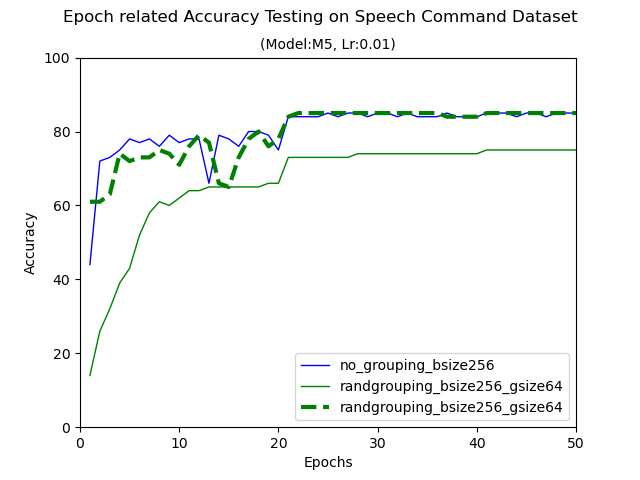
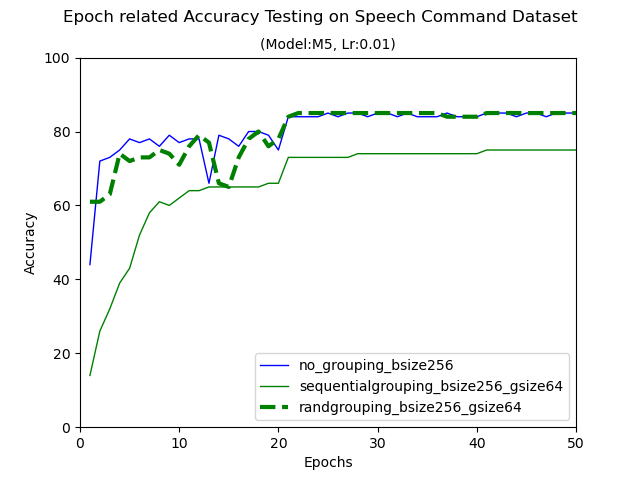
fixing figures

Changed region(s): [[0.4062, 0.75, 0.875, 0.875]]

diff --git a/audio/read_and_plot.py b/audio/read_and_plot.py
@@ -108,7 +108,7 @@ print("epoch ->", epochs)
 epoch_range = range(1,epochs+1)
 print("epoch_range ->", epoch_range)
 plt.plot(epoch_range, batch_top1_top5_size2, label = 'no_grouping_bsize256', color="blue", linewidth=1)
-plt.plot(epoch_range, batch_top1_top5_size4, label = 'randgrouping_bsize256_gsize64', color="green", linewidth=1)
+plt.plot(epoch_range, batch_top1_top5_size4, label = 'sequentialgrouping_bsize256_gsize64', color="green", linewidth=1)
 plt.plot(epoch_range, batch_top1_top5, '--', label = 'randgrouping_bsize256_gsize64', color="green", linewidth=3)
 # plt.plot(epoch_range, batch_top1_top5_size8, '--', label = 'sequentialgrouping_bsize256_gsize64', color="red", linewidth=3)
 # plt.plot(epoch_range, batch_top1_top5_size2, label = 'groupsize_2')
